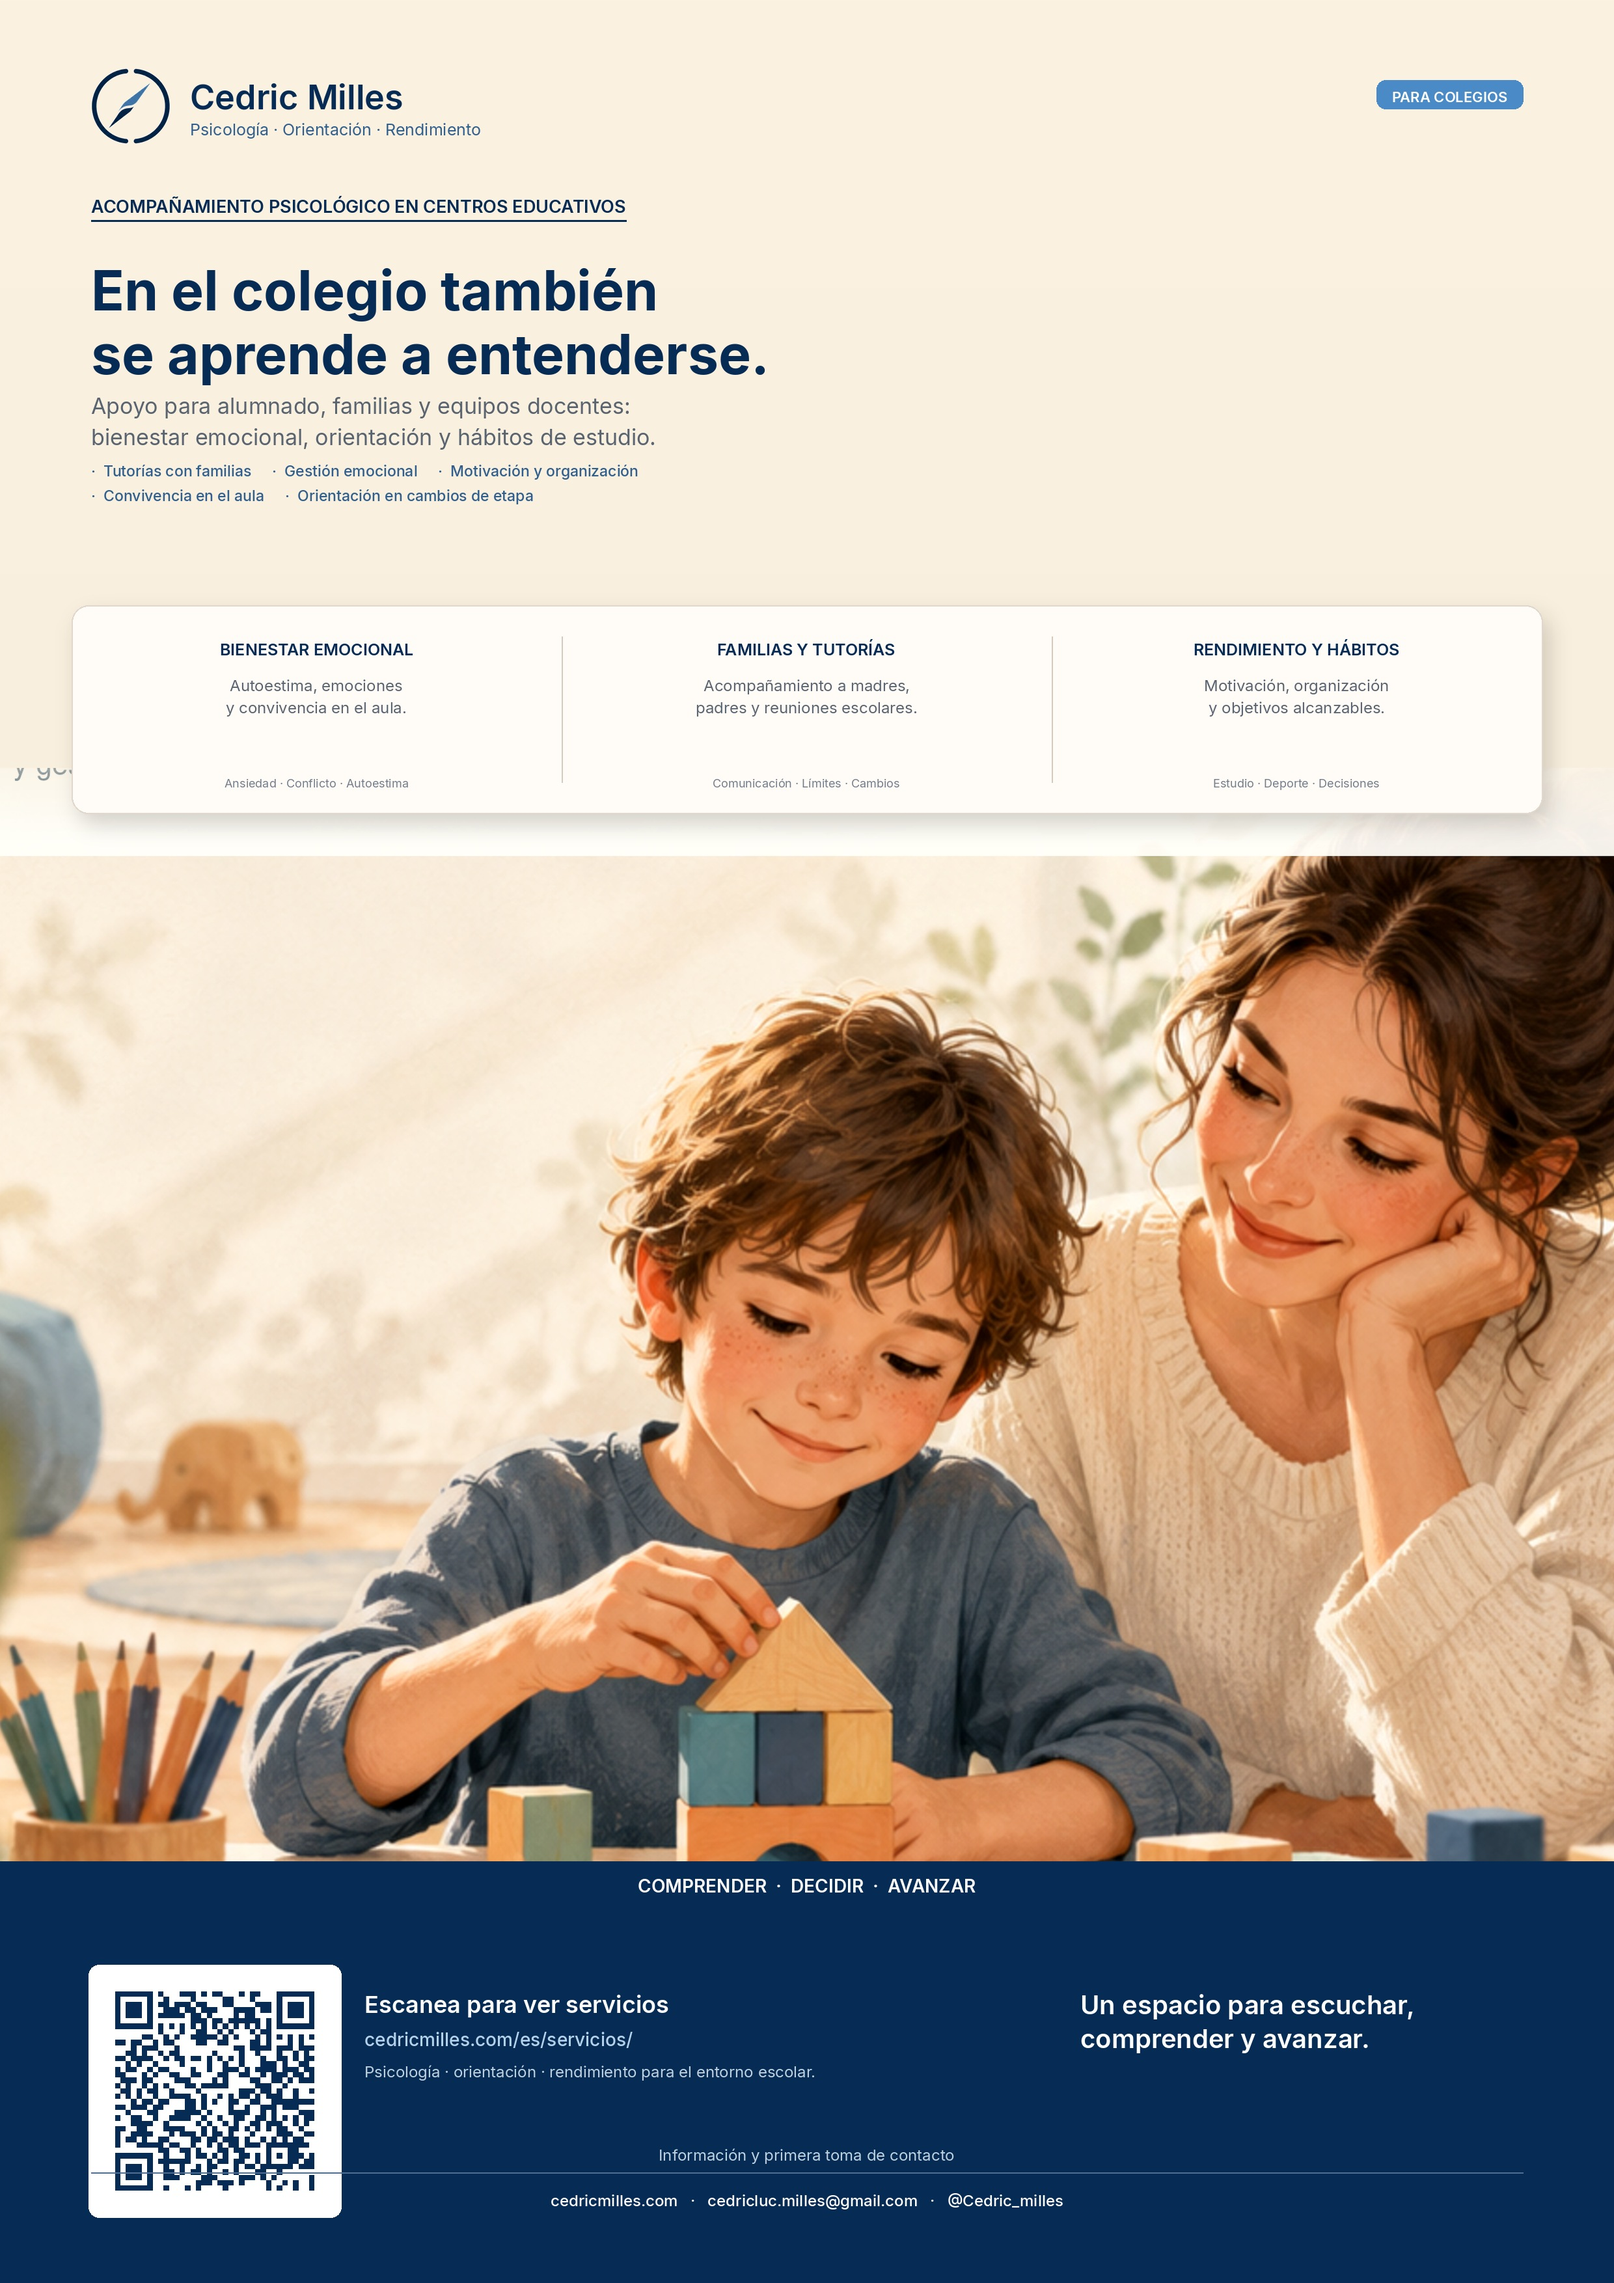
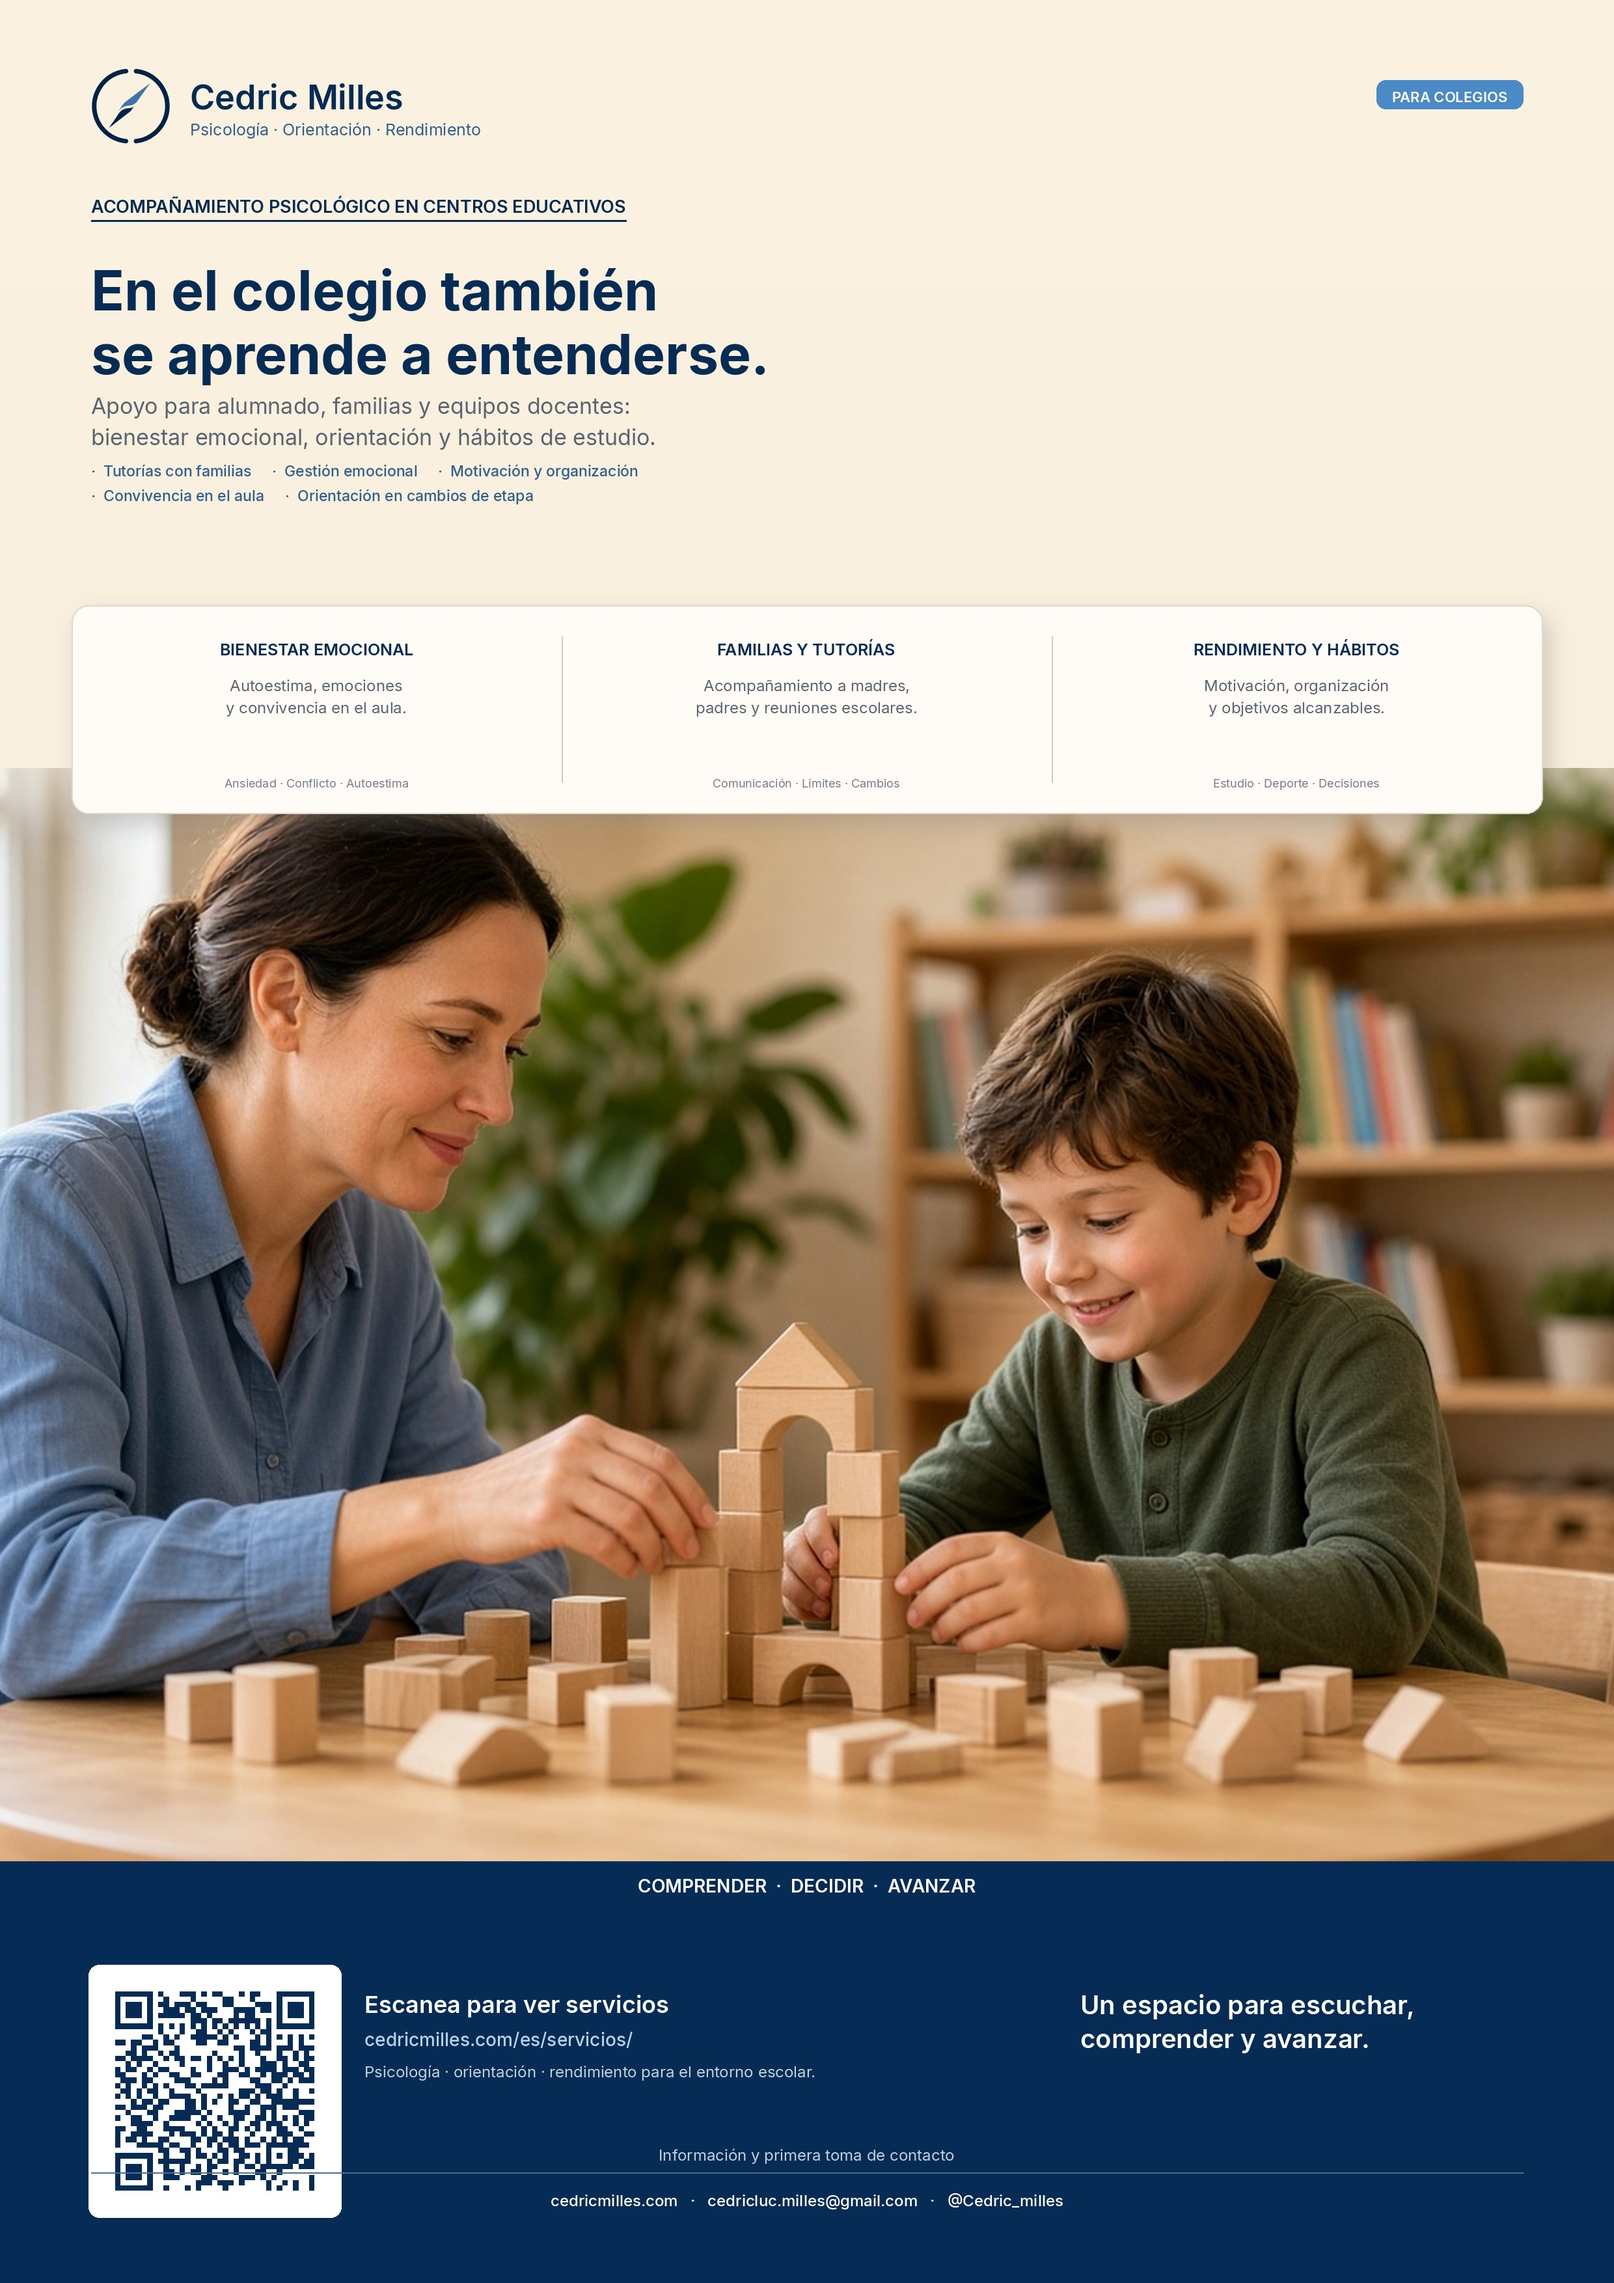
Rebuild family and school posters with original photography.
Replace reference image crops with newly generated photos and regenerate
the cream-layout posters from scratch, including the school QR version.

diff --git a/carteles/generar_cartel_orientacion_familias.py b/carteles/generar_cartel_orientacion_familias.py
@@ -1,0 +1,164 @@
+#!/usr/bin/env python3
+"""Cartel A3 familias (estilo cream + foto original, sin usar referencias externas)."""
+
+from __future__ import annotations
+
+import os
+from pathlib import Path
+
+from PIL import Image, ImageDraw, ImageEnhance, ImageFilter, ImageFont
+
+ROOT = Path(__file__).resolve().parent.parent
+ASSETS = ROOT / "assets"
+OUT = Path(__file__).resolve().parent
+
+W, H = 2480, 3508
+CREAM = (249, 239, 222)
+NAVY = (6, 43, 85)
+PRIMARY = (49, 95, 141)
+GRAY = (90, 100, 112)
+WHITE = (255, 255, 255)
+CARD = (255, 252, 248)
+
+INTER_REG = "/usr/share/fonts/truetype/macos/Inter-Regular.ttf"
+INTER_MED = "/usr/share/fonts/truetype/macos/Inter-Medium.ttf"
+INTER_SEMI = "/usr/share/fonts/truetype/macos/Inter-SemiBold.ttf"
+INTER_BOLD = "/usr/share/fonts/truetype/macos/Inter-Bold.ttf"
+
+
+def font(path: str, size: int) -> ImageFont.FreeTypeFont:
+    return ImageFont.truetype(path, size)
+
+
+def paste_cover_photo(
+    canvas: Image.Image,
+    photo: Image.Image,
+    y0: int,
+    y1: int,
+    fade_from: tuple[int, int, int] = CREAM,
+) -> None:
+    band_h = y1 - y0
+    pw, ph = photo.size
+    scale = max(W / pw, band_h / ph)
+    nw, nh = int(pw * scale), int(ph * scale)
+    resized = photo.resize((nw, nh), Image.Resampling.LANCZOS)
+    left = (nw - W) // 2
+    top = max(0, (nh - band_h) // 2)
+    crop = resized.crop((left, top, left + W, top + band_h))
+    crop = ImageEnhance.Color(crop).enhance(1.05)
+    crop = ImageEnhance.Contrast(crop).enhance(1.03)
+    canvas.paste(crop, (0, y0))
+    for i in range(100):
+        a = 1 - (i / 100)
+        y = y0 + i
+        row = canvas.crop((0, y, W, y + 1))
+        canvas.paste(Image.blend(row, Image.new("RGB", (W, 1), fade_from), a * 0.55), (0, y))
+
+
+def main() -> None:
+    icon = Image.open(ASSETS / "isotipo.png").convert("RGBA")
+    photo = Image.open(ASSETS / "foto-familias-original-cedric.jpg").convert("RGB")
+
+    img = Image.new("RGB", (W, H), CREAM)
+    draw = ImageDraw.Draw(img)
+    m = 140
+
+    for y in range(0, 1280):
+        t = y / 1280
+        draw.line([(0, y), (W, y)], fill=(int(251 - 2 * t), int(242 - 3 * t), int(225 - 3 * t)))
+
+    logo_w = 118
+    logo_h = int(icon.height * (logo_w / icon.width))
+    icon_r = icon.resize((logo_w, logo_h), Image.Resampling.LANCZOS)
+    ly = 110
+    img.paste(icon_r, (m, ly), icon_r)
+    draw.text((m + logo_w + 28, ly + 14), "Cedric Milles", font=font(INTER_SEMI, 50), fill=NAVY)
+    draw.text(
+        (m + logo_w + 28, ly + 76),
+        "Psicología · Orientación · Rendimiento",
+        font=font(INTER_REG, 24),
+        fill=PRIMARY,
+    )
+
+    cat = "ORIENTACIÓN PSICOLÓGICA PARA NIÑOS, ADOLESCENTES Y FAMILIAS"
+    y = 310
+    draw.text((m, y), cat, font=font(INTER_SEMI, 26), fill=NAVY)
+    bb = draw.textbbox((m, y), cat, font=font(INTER_SEMI, 26))
+    draw.line([(m, bb[3] + 10), (bb[2], bb[3] + 10)], fill=NAVY, width=3)
+
+    y = 410
+    for line in ["Crecer también es", "aprender a entenderse."]:
+        draw.text((m, y), line, font=font(INTER_BOLD, 82), fill=NAVY)
+        y += 96
+
+    y += 18
+    for line in [
+        "Un espacio cercano para acompañar el bienestar emocional,",
+        "la confianza y los retos del día a día.",
+    ]:
+        draw.text((m, y), line, font=font(INTER_REG, 34), fill=GRAY)
+        y += 48
+
+    footer_h = 500
+    photo_top = 1140
+    photo_bottom = H - footer_h
+    paste_cover_photo(img, photo, photo_top, photo_bottom)
+
+    draw = ImageDraw.Draw(img)
+    card_x, card_y, card_w, card_h = 130, 940, W - 260, 280
+    shadow = Image.new("RGBA", (W, H), (0, 0, 0, 0))
+    sd = ImageDraw.Draw(shadow)
+    sd.rounded_rectangle(
+        [card_x + 8, card_y + 14, card_x + card_w + 8, card_y + card_h + 14],
+        radius=24,
+        fill=(0, 0, 0, 38),
+    )
+    img = Image.alpha_composite(img.convert("RGBA"), shadow.filter(ImageFilter.GaussianBlur(14))).convert("RGB")
+    draw = ImageDraw.Draw(img)
+    draw.rounded_rectangle([card_x, card_y, card_x + card_w, card_y + card_h], radius=24, fill=CARD)
+
+    cols = [
+        ("EMOCIONES Y AUTOESTIMA", "Identificar, expresar\ny gestionar emociones."),
+        ("RELACIONES Y CAMBIOS", "Familia, amistades,\netapas y convivencia."),
+        ("HÁBITOS Y ESTUDIO", "Motivación, organización\ny objetivos realistas."),
+    ]
+    col_w = card_w // 3
+    for i, (title, body) in enumerate(cols):
+        cx = card_x + i * col_w
+        if i > 0:
+            draw.line([(cx, card_y + 40), (cx, card_y + card_h - 40)], fill=(210, 200, 190), width=2)
+        tw = draw.textbbox((0, 0), title, font=font(INTER_SEMI, 26))[2]
+        draw.text((cx + (col_w - tw) // 2, card_y + 56), title, font=font(INTER_SEMI, 26), fill=NAVY)
+        by = card_y + 118
+        for line in body.split("\n"):
+            lw = draw.textbbox((0, 0), line, font=font(INTER_REG, 25))[2]
+            draw.text((cx + (col_w - lw) // 2, by), line, font=font(INTER_REG, 25), fill=GRAY)
+            by += 36
+
+    footer_y = H - footer_h
+    draw.rectangle([0, footer_y, W, H], fill=NAVY)
+
+    cta = "Un espacio para escuchar, comprender y avanzar."
+    cta_f = font(INTER_SEMI, 46)
+    cw = draw.textbbox((0, 0), cta, font=cta_f)[2]
+    draw.text(((W - cw) // 2, footer_y + 100), cta, font=cta_f, fill=WHITE)
+
+    line_y = footer_y + 195
+    draw.line([(W // 2 - 280, line_y), (W // 2 + 280, line_y)], fill=(120, 150, 180), width=2)
+    info = "Información y primera toma de contacto"
+    iw = draw.textbbox((0, 0), info, font=font(INTER_REG, 26))[2]
+    draw.text(((W - iw) // 2, line_y + 28), info, font=font(INTER_REG, 26), fill=(190, 210, 225))
+
+    contact = "cedricmilles.com   ·   cedricluc.milles@gmail.com   ·   @Cedric_milles"
+    cw = draw.textbbox((0, 0), contact, font=font(INTER_MED, 24))[2]
+    draw.text(((W - cw) // 2, footer_y + 300), contact, font=font(INTER_MED, 24), fill=WHITE)
+
+    out_png = OUT / "cartel-orientacion-familias.png"
+    out_jpg = OUT / "cartel-orientacion-familias.jpg"
+    img.save(out_png, "PNG", dpi=(300, 300))
+    img.save(out_jpg, "JPEG", quality=93, dpi=(300, 300))
+    print(f"saved {out_png} ({os.path.getsize(out_png)} bytes)")
+
+
+if __name__ == "__main__":
+    main()

diff --git a/carteles/generar_cartel_colegios_qr.py b/carteles/generar_cartel_colegios_qr.py
@@ -48,9 +48,8 @@ def main() -> None:
     qr_img.save(ASSETS / "qr-cedric-servicios.png")
 
     icon = Image.open(ASSETS / "isotipo.png").convert("RGBA")
-    photo_path = ASSETS / "foto-extraida-larga.png"
-    photo_src = Image.open(photo_path).convert("RGB")
-    photo = photo_src.crop((0, 240, photo_src.width, photo_src.height))
+    photo_path = ASSETS / "foto-colegios-original-cedric.jpg"
+    photo = Image.open(photo_path).convert("RGB")
 
     img = Image.new("RGB", (W, H), CREAM)
     draw = ImageDraw.Draw(img)

diff --git a/carteles/README.md b/carteles/README.md
@@ -26,6 +26,11 @@ Carteles publicitarios alineados con `Material Corporativo` (concepto de brújul
 ```bash
 python3 carteles/generar_carteles.py
 python3 carteles/generar_cartel_colegios_qr.py
+python3 carteles/generar_cartel_orientacion_familias.py
 ```
 
 Requisito QR: `pip install qrcode[pil]`
+
+Fotografías del cartel cream/foto: `assets/foto-colegios-original-cedric.jpg` y
+`assets/foto-familias-original-cedric.jpg` (generadas para el proyecto, no recortes
+de la referencia externa).
